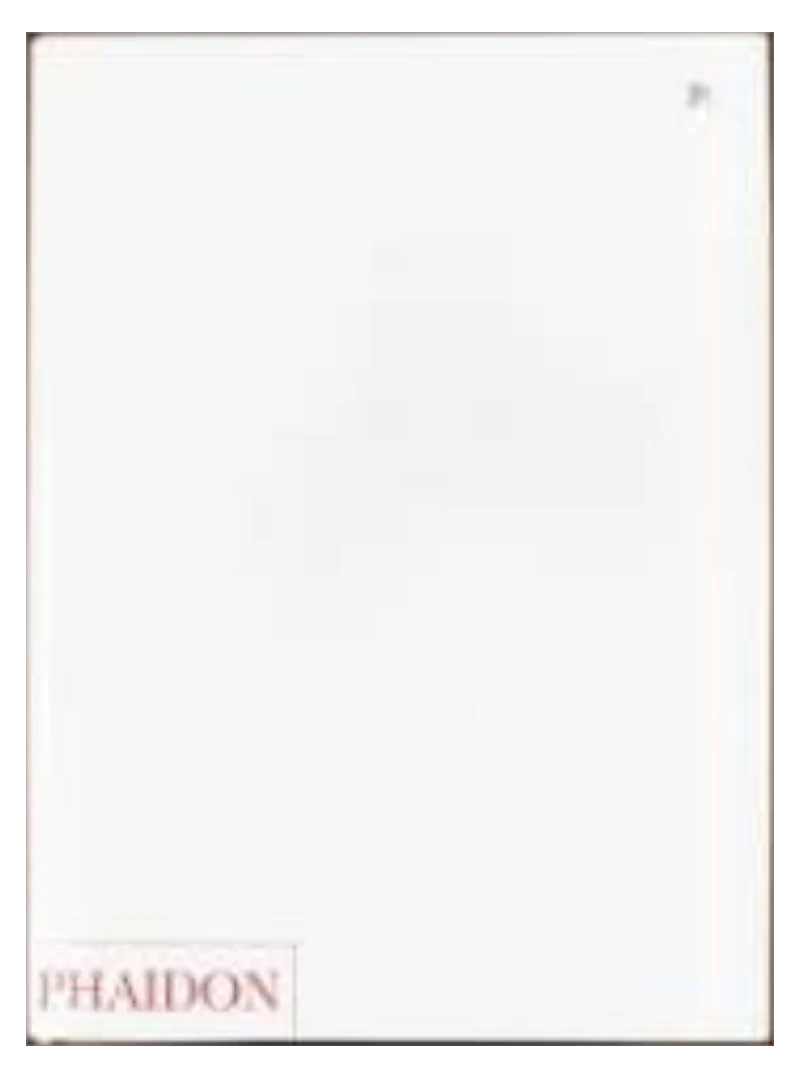
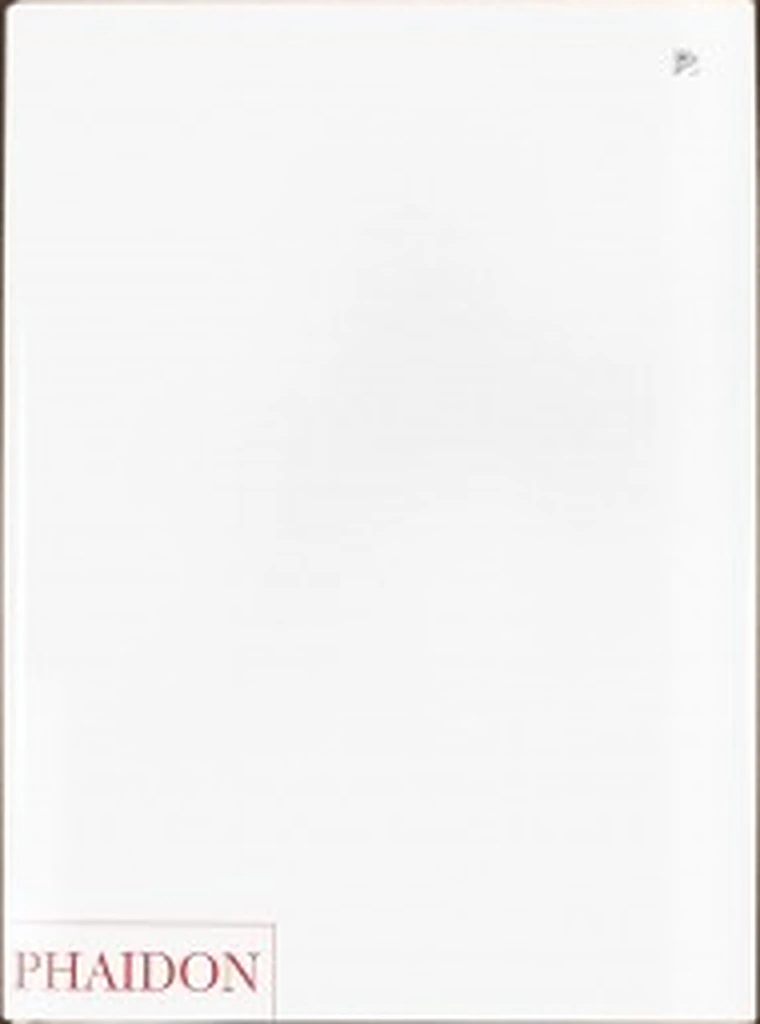
Re-cut The Story of Art's cover from the photograph
The plate was the cover crop blown up 4x and squeezed into 6KB, which on
the wall is a blurred rectangle with PHAIDON as a smudge. Cut again from
the same photograph — the only cover shot there is — at a tighter crop,
resampled with Lanczos and given back its edge, at a quality that leaves
room for the detail: 760x1024 in 11KB, and the imprint reads.

The ceiling is the source. That photograph is 600px wide and the book
inside it is 190x256, so this is as much cover as the repository holds;
anything sharper has to come from the original frame.

Claude-Session: https://claude.ai/code/session_019uCume6DABHWMMWpYSpGV8

Changed region(s): [[0.0, 0.0, 1.0, 1.0]]

diff --git a/_projects/2010-07-01-the-story-of-art.md b/_projects/2010-07-01-the-story-of-art.md
@@ -6,8 +6,8 @@ category: book
 image_path: "/images/the-story-of-art/jhuff-the-story-of-art-"
 description: "This project is a conflation of a common Internet error and a seminal book of the history of art that relies heavily on images. All the images in E. H. Gombrich's The Story of Art are replaced with 'broken image link' icons that typically appear on outdated web sites."
 plate: "/images/plates/the-story-of-art.webp"
-plate_w: 800
-plate_h: 1078
+plate_w: 760
+plate_h: 1024
 section: studio
 dark: true
 ---
